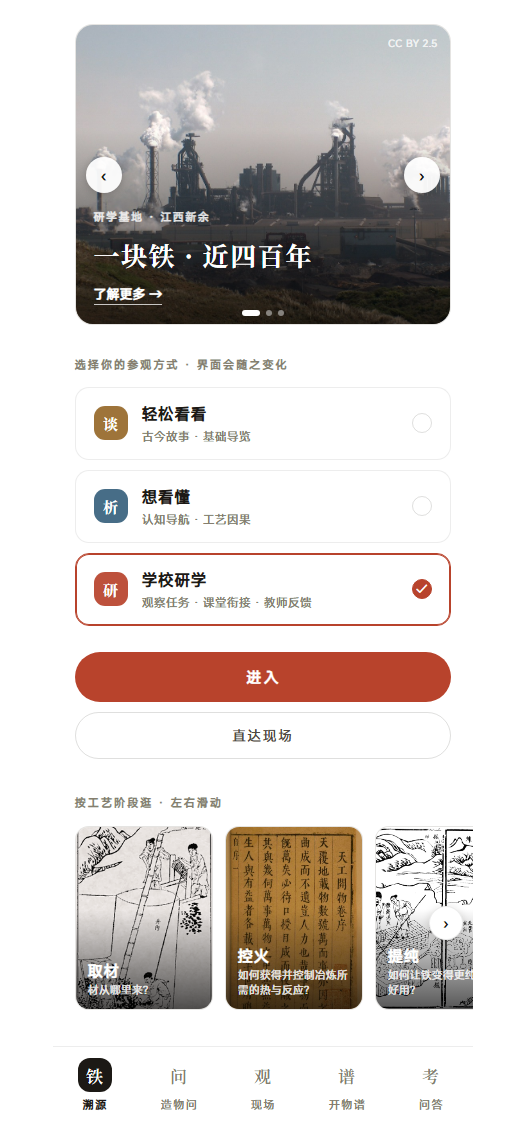
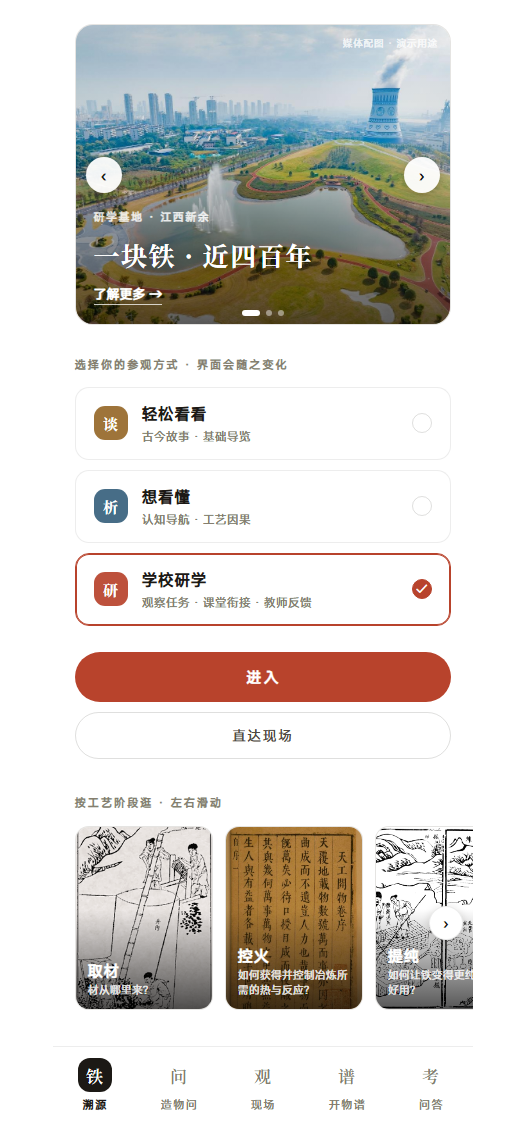
feat: 换入新余本地真实图片——新钢厂区(M2)/青花瓷冷却塔(M6)/厂区航拍(hero)，图注标注央视网来源与演示用途；其余外文图补（示意）标注

Changed region(s): [[0.1219, 0.0, 0.8838, 0.3111]]

diff --git a/kaiwu-mailuo/frontend/src/images.ts b/kaiwu-mailuo/frontend/src/images.ts
@@ -15,18 +15,18 @@ export const NODE_IMAGES: Record<string, ImgMeta> = {
   A3: { src: IMG('a3'), credit: '《天工开物》明刊本 · 生熟铁炉图', license: '公有领域', page: CP('File:Chinese Fining and Blast Furnace.jpg') },
   A4: { src: IMG('a4'), credit: '《天工开物》明刊本 · 铸鼎铸钟图', license: '公有领域', page: CP('File:Casting a Tripod, Bell, and Statue.jpg') },
   A5: { src: IMG('a5'), credit: '《天工开物》明刊本 · 水碓图', license: '公有领域', page: CP('File:Hydraulic-Powdered Trip Hammers.jpg') },
-  M1: { src: IMG('m1'), credit: '露天采矿场 · Geomartin 摄', license: 'CC BY-SA 3.0', page: CP('File:Twincreeksblast.jpg') },
-  M2: { src: IMG('m2'), credit: '萨贡托高炉 · Diego Delso 摄', license: 'CC BY-SA 4.0', page: CP('File:Alto Horno, Puerto de Sagunto, España, 2015-01-04, DD 91.JPG') },
-  M3: { src: IMG('m3'), credit: '蒂森克虏伯杜伊斯堡钢厂 · Katpatuka 摄', license: 'CC BY-SA 3.0', page: CP('File:ThyssenKrupp Duisburg 016.jpg') },
-  M4: { src: IMG('m4'), credit: '迪林根根连铸产线（ECSC 档案）', license: 'CC BY-SA 4.0', page: CP('File:ECSC Financial report 1995 Dillinger Hütte Continuous casting.jpg') },
+  M1: { src: IMG('m1'), credit: '露天采矿场（示意）· Geomartin 摄', license: 'CC BY-SA 3.0', page: CP('File:Twincreeksblast.jpg') },
+  M2: { src: IMG('m2'), credit: '新钢厂区 · 印象新钢工业旅游（央视网配图）', license: '媒体配图 · 演示用途', page: 'https://local.cctv.com/2023/10/25/ARTI8dWM4uos18x2iyvJxDal231025.shtml' },
+  M3: { src: IMG('m3'), credit: '转炉炼钢车间（示意）· Katpatuka 摄', license: 'CC BY-SA 3.0', page: CP('File:ThyssenKrupp Duisburg 016.jpg') },
+  M4: { src: IMG('m4'), credit: '连铸产线（示意，ECSC 档案）', license: 'CC BY-SA 4.0', page: CP('File:ECSC Financial report 1995 Dillinger Hütte Continuous casting.jpg') },
   M5: { src: IMG('m5'), credit: '两辊可逆热轧机（历史影像）', license: '公有领域 · NARA 541179', page: 'https://commons.wikimedia.org/w/index.php?search=NARA+541179+hot+roll' },
-  M6: { src: IMG('m6'), credit: '螺纹钢筋 · ArcelorMittal Kryvyi Rih', license: 'CC BY-SA 4.0', page: CP('File:Арматурный прокат.jpg') },
+  M6: { src: IMG('m6'), credit: '新钢 · 青花瓷冷却塔（央视网配图）', license: '媒体配图 · 演示用途', page: 'https://local.cctv.com/2023/10/25/ARTI8dWM4uos18x2iyvJxDal231025.shtml' },
 }
 
 export const HERO_SLIDES: { src: string; eyebrow: string; title: string; tab: 'walk' | 'craft' | 'spectrum'; credit: string; license: string }[] = [
-  { src: IMG('hero1'), eyebrow: '研学基地 · 江西新余', title: '一块铁 · 近四百年', tab: 'walk', credit: 'Hoogovens · Jesper Schoen 摄', license: 'CC BY 2.5' },
+  { src: IMG('hero1'), eyebrow: '研学基地 · 江西新余', title: '一块铁 · 近四百年', tab: 'walk', credit: '新钢厂区航拍 · 央视网', license: '媒体配图 · 演示用途' },
   { src: IMG('hero2'), eyebrow: '现场 · 出铁时刻', title: '铁水怎样变成钢', tab: 'craft', credit: 'Viktor Mácha 摄', license: 'CC BY-SA 4.0' },
   { src: IMG('hero3'), eyebrow: '《天工开物》· 1637', title: '古今同一道造物题', tab: 'spectrum', credit: '《天工开物》明刊本', license: '公有领域' },
 ]
 
-export const FALLBACK_IMG: ImgMeta = { src: IMG('m2'), credit: '高炉 · Diego Delso 摄', license: 'CC BY-SA 4.0', page: CP('File:Alto Horno, Puerto de Sagunto, España, 2015-01-04, DD 91.JPG') }
+export const FALLBACK_IMG: ImgMeta = { src: IMG('m2'), credit: '新钢厂区 · 央视网配图', license: '媒体配图 · 演示用途', page: 'https://local.cctv.com/2023/10/25/ARTI8dWM4uos18x2iyvJxDal231025.shtml' }

diff --git a/kaiwu-mailuo/frontend/src/screens/Walk.tsx b/kaiwu-mailuo/frontend/src/screens/Walk.tsx
@@ -83,7 +83,7 @@ export default function Walk({ onGoto }: { onGoto: (tab: 'qa' | 'spectrum') => v
           <span className="src-pub">{mainEvidence ? evidenceTitle(mainEvidence) : '开物脉络内容库'}</span>
           <span className="src-title" style={{ display: 'block' }}>图片来源 · {img.credit}</span>
         </span>
-        <span className="src-tag">{img.license}<br />Wikimedia</span>
+        <span className="src-tag">{img.license}<br />{img.page.includes('wikimedia') ? 'Wikimedia Commons' : '央视网'}</span>
       </a>
       <div className="node-head" style={{ marginTop: 18 }}>
         <h2 className="node-title">{node.title}</h2>
